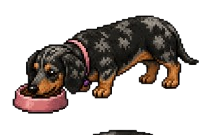
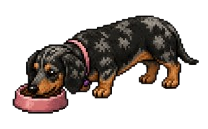
finish front app

Changed region(s): [[0.0577, 0.093, 0.9808, 0.8992], [0.4327, 0.9612, 0.75, 1.0]]

diff --git a/src/screens/PetScreen.js b/src/screens/PetScreen.js
@@ -1,28 +1,322 @@
-import React from 'react';
-import { View, Text, StyleSheet } from 'react-native';
+import React, { useState, useEffect, useRef } from 'react';
+import {
+  View,
+  Text,
+  Image,
+  ImageBackground,
+  TouchableOpacity,
+  Animated,
+  StyleSheet,
+} from 'react-native';
 import { useTheme } from '../theme/ThemeContext';
+
+// Assets
+const bgImage = require('../../assets/garden.png');
+const bowlImg = require('../../assets/bowl.png');
+const bedImg = require('../../assets/bed.png');
+const heartImg = require('../../assets/heart_4.png');
+
+// Sprites
+const idleSprites = [
+  require('../../assets/idle_1.png'),
+  require('../../assets/idle_2.png'),
+];
+const eatSprites = [
+  require('../../assets/eat_1.png'),
+  require('../../assets/eat_2.png'),
+];
+const sleepSprites = [
+  require('../../assets/sleep_1.png'),
+  require('../../assets/sleep_2.png'),
+];
 
 const PetScreen = () => {
   const { theme } = useTheme();
 
-  return (
-    <View style={[styles.container, { backgroundColor: theme.background }]}>
-      <Text style={[styles.text, { color: theme.dark }]}>Pet</Text>
+  // ── Pet states ──────────────────────────────────────────────────
+  const [hunger, setHunger] = useState(50);
+  const [happiness, setHappiness] = useState(50);
+  const [petAction, setPetAction] = useState('idle'); // 'idle' | 'eating' | 'sleeping'
+  const [frame, setFrame] = useState(1);
+
+  // Floating hearts
+  const [hearts, setHearts] = useState([]);
+  const heartsAnim = useRef([]);
+
+  // ── Sprite animation loop (500ms) ──────────────────────────────
+  useEffect(() => {
+    const interval = setInterval(() => {
+      setFrame(prev => (prev === 1 ? 2 : 1));
+    }, 500);
+    return () => clearInterval(interval);
+  }, []);
+
+  // ── Select current sprite based on action ──────────────────────
+  const currentDogFrame = (() => {
+    switch (petAction) {
+      case 'eating':  return eatSprites[frame - 1];
+      case 'sleeping':return sleepSprites[frame - 1];
+      default:        return idleSprites[frame - 1];
+    }
+  })();
+
+  // ── Tap the dog → floating hearts + happiness boost ────────────
+  const handlePetTap = () => {
+    if (petAction === 'sleeping') return;
+
+    setHappiness(prev => Math.min(prev + 10, 100));
+
+    const newHearts = [
+      { id: Date.now(),     offsetX: 25 },
+      { id: Date.now() + 1, offsetX: 0 },
+      { id: Date.now() + 2, offsetX: -25 },
+    ];
+    setHearts(prev => [...prev, ...newHearts]);
+
+    newHearts.forEach(h => {
+      const anim = new Animated.Value(0);
+      heartsAnim.current.push({ id: h.id, anim });
+
+      Animated.timing(anim, {
+        toValue: 1,
+        duration: 1200,
+        useNativeDriver: true,
+      }).start(() => {
+        setHearts(prev => prev.filter(heart => heart.id !== h.id));
+      });
+    });
+  };
+
+  // ── Tap the food bowl → start eating ──────────────────────────
+  const handleFeed = () => {
+    if (petAction === 'sleeping') return;
+
+    setPetAction('eating');
+    setHunger(prev => Math.min(prev + 15, 100));
+
+    // Automatically go back to idle after 3 seconds
+    setTimeout(() => {
+      setPetAction(prev => (prev === 'eating' ? 'idle' : prev));
+    }, 3000);
+  };
+
+  // ── Tap the bed → toggle sleeping ─────────────────────────────
+  const handleBedToggle = () => {
+    if (petAction === 'sleeping') {
+      setPetAction('idle');
+    } else {
+      setPetAction('sleeping');
+    }
+  };
+
+  // ── Progress bar component (retro 8‑bit) ──────────────────────
+  const ProgressBar = ({ label, value, color }) => (
+    <View style={styles.progressContainer}>
+      <Text style={[styles.progressLabel, { color: theme.textPrimary }]}>
+        {label}
+      </Text>
+      <View style={[styles.barBg, { borderColor: theme.border }]}>
+        <View
+          style={[
+            styles.barFill,
+            { width: `${value}%`, backgroundColor: color || theme.primary },
+          ]}
+        />
+      </View>
+      <Text style={[styles.progressValue, { color: theme.textSecondary }]}>
+        {value}/100
+      </Text>
     </View>
+  );
+
+  return (
+    <ImageBackground
+      source={bgImage}
+      style={styles.backgroundImage}
+      resizeMode="cover"
+    >
+      {/* HUD – fully opaque, no semi‑transparent overlay */}
+      <View style={[styles.hud, { backgroundColor: theme.cardBackground }]}>
+        <ProgressBar label="HUNGER" value={hunger} color="#FF8C00" />
+        <ProgressBar label="HAPPINESS" value={happiness} color="#FF69B4" />
+      </View>
+
+      {/* Central pet area */}
+      <View style={styles.petArea}>
+        {/* Floating hearts */}
+        {hearts.map(heart => {
+          const animObj = heartsAnim.current.find(a => a.id === heart.id);
+          const translateY = animObj
+            ? animObj.anim.interpolate({ inputRange: [0, 1], outputRange: [0, -130] })
+            : 0;
+          const opacity = animObj
+            ? animObj.anim.interpolate({ inputRange: [0, 0.7, 1], outputRange: [1, 1, 0] })
+            : 1;
+
+          return (
+            <Animated.Image
+              key={heart.id}
+              source={heartImg}
+              style={[
+                styles.floatingHeart,
+                {
+                  left: '50%',
+                  marginLeft: -12 + heart.offsetX,
+                  transform: [{ translateY }],
+                  opacity,
+                },
+              ]}
+            />
+          );
+        })}
+
+        {/* Character container with bed + dog */}
+        <View style={styles.characterContainer}>
+          {/* Bed – shown only when sleeping, behind the dog */}
+          {petAction === 'sleeping' && (
+            <Image source={bedImg} style={styles.bedImage} resizeMode="contain" />
+          )}
+
+          {/* Dog – always on top */}
+          <TouchableOpacity
+            activeOpacity={0.8}
+            onPress={handlePetTap}
+            disabled={petAction === 'sleeping'}
+          >
+            <Image
+              source={currentDogFrame}
+              style={styles.dogImage}
+              resizeMode="contain"
+            />
+          </TouchableOpacity>
+        </View>
+      </View>
+
+      {/* Items row – solid background, no transparency */}
+      <View style={[styles.itemsRow, { backgroundColor: theme.cardBackground }]}>
+        {/* Food bowl (tap to feed) */}
+        <TouchableOpacity
+          style={[styles.itemButton, { borderColor: theme.border }]}
+          onPress={handleFeed}
+        >
+          <Image source={bowlImg} style={styles.itemIcon} resizeMode="contain" />
+          <Text style={[styles.itemLabel, { color: theme.textSecondary }]}>FOOD</Text>
+        </TouchableOpacity>
+
+        {/* Bed (tap to toggle sleeping) */}
+        <TouchableOpacity
+          style={[styles.itemButton, { borderColor: theme.border }]}
+          onPress={handleBedToggle}
+        >
+          <Image source={bedImg} style={styles.itemIcon} resizeMode="contain" />
+          <Text style={[styles.itemLabel, { color: theme.textSecondary }]}>
+            {petAction === 'sleeping' ? 'WAKE UP' : 'SLEEP'}
+          </Text>
+        </TouchableOpacity>
+      </View>
+    </ImageBackground>
   );
 };
 
 export default PetScreen;
 
+// ─── Styles ────────────────────────────────────────────────────────
 const styles = StyleSheet.create({
-  container: {
+  backgroundImage: {
+    flex: 1,
+    width: '100%',
+    height: '100%',
+  },
+  hud: {
+    paddingHorizontal: 15,
+    paddingTop: 12,
+    paddingBottom: 6,
+    borderBottomWidth: 3,
+    borderBottomColor: '#000',
+  },
+  progressContainer: {
+    flexDirection: 'row',
+    alignItems: 'center',
+    marginBottom: 8,
+  },
+  progressLabel: {
+    fontFamily: 'PressStart2P-Regular',
+    fontSize: 10,
+    width: 85,
+  },
+  barBg: {
+    flex: 1,
+    height: 14,
+    borderWidth: 2,
+    backgroundColor: '#111',
+    marginHorizontal: 8,
+  },
+  barFill: {
+    height: '100%',
+  },
+  progressValue: {
+    fontFamily: 'PressStart2P-Regular',
+    fontSize: 10,
+    width: 40,
+    textAlign: 'right',
+  },
+  petArea: {
     flex: 1,
     justifyContent: 'center',
     alignItems: 'center',
+    position: 'relative',
   },
-  text: {
-    fontSize: 24,
-    fontFamily: 'monospace',
-    fontWeight: 'bold',
+  characterContainer: {
+    alignItems: 'center',
+    justifyContent: 'center',
+    width: 250,
+    height: 250,   // Contenedor más ajustado al tamaño del perro
+    position: 'relative',
+  },
+  bedImage: {
+    position: 'absolute',
+    top: 70,       // Empuja la cama hacia abajo justo debajo del cuerpo del perro
+    width: 250,    // Cama mucho más grande y ancha
+    height: 160,
+    alignSelf: 'center',
+    zIndex: 0,     // Asegura que quede atrás
+  },
+  dogImage: {
+    width: 200,
+    height: 200,
+    zIndex: 1,     // Asegura que quede adelante
+  },
+  floatingHeart: {
+    position: 'absolute',
+    top: -20,
+    width: 24,
+    height: 24,
+    resizeMode: 'contain',
+  },
+  itemsRow: {
+    flexDirection: 'row',
+    justifyContent: 'space-around',
+    paddingVertical: 12, // Reducido el espacio vertical
+    borderTopWidth: 3,
+    borderTopColor: '#000',
+  },
+  itemButton: {
+    alignItems: 'center',
+    justifyContent: 'center',
+    width: 85,       // Reducido de 100 a 85
+    height: 75,      // Reducido de 90 a 75
+    borderWidth: 3,
+    borderColor: '#000',
+    backgroundColor: '#FFF',
+    borderRadius: 8,
+  },
+  itemIcon: {
+    width: 36,       // Reducido de 48 a 36
+    height: 36,
+  },
+  itemLabel: {
+    fontFamily: 'PressStart2P-Regular',
+    fontSize: 8,     // Letra un puntito más pequeña
+    marginTop: 4,
   },
 });

diff --git a/src/theme/ThemeContext.js b/src/theme/ThemeContext.js
@@ -10,13 +10,13 @@ const PALETTES = {
     border: '#C71585',
     headerTint: '#FFFFFF',
   },
-  'Ocean Blue': {
-    background: '#F0F8FF',
-    primary: '#1E3A8A',
-    textPrimary: '#1E3A8A',
-    textSecondary: '#6076B3',
-    cardBackground: '#DBEAFE',
-    border: '#1E3A8A',
+  'Midnight Blue': {         // antes Ocean Blue
+    background: '#E2EAFC',
+    primary: '#3F51B5',
+    textPrimary: '#1A237E',
+    textSecondary: '#8E9AAF',
+    cardBackground: '#D6E4FF',
+    border: '#3F51B5',
     headerTint: '#FFFFFF',
   },
   'Royal Purple': {
@@ -28,13 +28,13 @@ const PALETTES = {
     border: '#6B21A8',
     headerTint: '#FFFFFF',
   },
-  'Mint Green': {
-    background: '#F0FFF4',
-    primary: '#047857',
-    textPrimary: '#047857',
-    textSecondary: '#4CAF84',
-    cardBackground: '#D1FAE5',
-    border: '#047857',
+  'Jade Green': {            // antes Mint Green
+    background: '#E0F2F1',
+    primary: '#26A69A',
+    textPrimary: '#004D40',
+    textSecondary: '#80CBC4',
+    cardBackground: '#B2DFDB',
+    border: '#26A69A',
     headerTint: '#FFFFFF',
   },
   'Sunset Orange': {
@@ -46,15 +46,15 @@ const PALETTES = {
     border: '#C2410C',
     headerTint: '#FFFFFF',
   },
-  'Dark Dream': {
-    background: '#121212',
-    primary: '#5e5e5e',        // vibrant accent
-    textPrimary: '#FFFFFF',
-    textSecondary: '#B0B0B0',
-    cardBackground: '#1E1E1E',
-    border: '#b9b7bb',
-    headerTint: '#FFFFFF',
-  },
+'Dark Dream': {
+    background: '#0D0D0D',        // fondo principal casi negro
+    primary: '#A0A0A0',          // gris claro para botones y acentos
+    textPrimary: '#E0E0E0',      // texto principal blanco roto (no deslumbrante)
+    textSecondary: '#808080',    // texto secundario gris medio
+    cardBackground: '#1A1A1A',   // fondo de tarjetas, ligeramente más claro
+    border: '#505050',           // bordes gris oscuro
+    headerTint: '#E0E0E0',      // color del texto en la barra superior
+},
 };
 
 export const ThemeContext = createContext();
